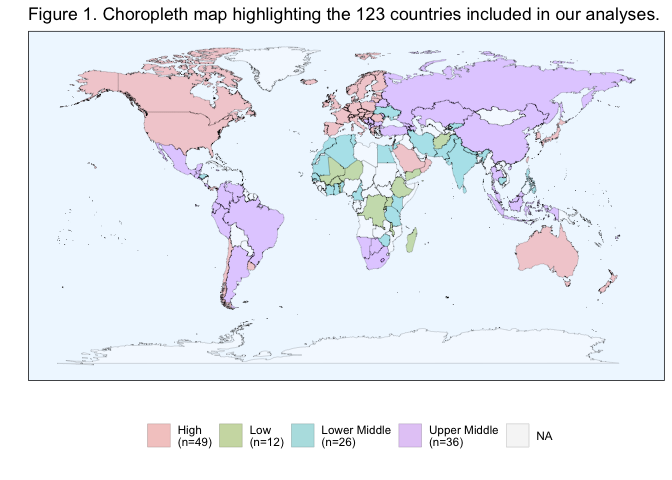
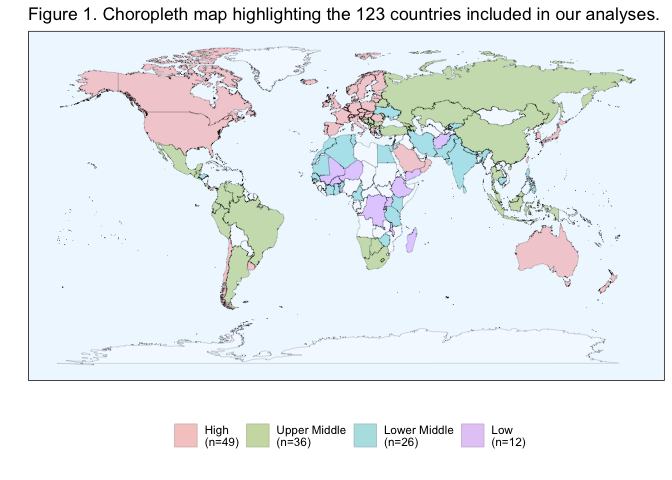
continued on with preliminary analysis, using the newly added income classifications to change fill pattern for initial inclusion figure. also began building out code chunk series for forthcoming violin plot array comparing pop reductions across scenarios and indicators.

diff --git a/analysis/analysis-script.md b/analysis/analysis-script.md
@@ -351,7 +351,7 @@ classifications.
 ``` r
 left_join(impact_modeling_data,reduction_modeling_data,by="country") %>% ggplot(aes(x=long,y=lat,fill=income.classification,group=group)) + 
   geom_polygon(color="black",size=0.05,alpha=0.33) +
-  scale_fill_discrete(labels=c("High\n(n=49)","Low\n(n=12)","Lower Middle\n(n=26)","Upper Middle\n(n=36)","NA"),na.value="white") +
+  scale_fill_discrete(limits=c("high","upper middle","lower middle","low"),labels=c("High\n(n=49)","Upper Middle\n(n=36)","Lower Middle\n(n=26)","Low\n(n=12)","NA"),na.value="white") +
   guides() +
   xlab("") + 
   ylab("") +
@@ -362,11 +362,27 @@ left_join(impact_modeling_data,reduction_modeling_data,by="country") %>% ggplot(
 
 ![](analysis-script_files/figure-gfm/unnamed-chunk-15-1.png)<!-- -->
 
-New inclusion choropleth designating countries by income classification.
+``` r
+vegan_cf_total <- ggplot(reduction_modeling_data,aes(x=dec_pop_vegan_kg_co2e_total,y=income.classification,fill=income.classification)) + 
+  geom_violin(adjust=1.5,size=0.5,alpha=0.33) +
+  scale_fill_discrete(limits=c("high","upper middle","lower middle","low")) +
+  scale_y_discrete(limits=c(c("low","lower middle","upper middle","high"))) +
+  geom_boxplot(width=0.05,fill="black",outlier.shape=NA) + 
+  stat_summary(fun.y=median,geom="point",fill="white",shape=21,size=2)
+```
 
-ggplot(reduction_modeling_data,aes(x=long,y=lat,fill=income.classification,group=group)) +
-geom_polygon(color=“black”,size=0.05,alpha=0.33) +
-scale_fill_discrete(na.value=“white”) + guides(fill=“none”) + xlab(““) +
-ylab(”“) + labs(caption=”“) + ggtitle(”Figure 1. Choropleth map
-highlighting the 123 countries included in our analyses.”) +
-theme(legend.position=“none”,panel.grid=element_blank(),panel.background=element_rect(fill=“aliceblue”),panel.border=element_rect(fill=NA),axis.text=element_blank(),axis.ticks=element_blank())
+``` r
+vegan_cf_xlims <- reduction_modeling_data %>%
+  group_by(income.classification) %>%
+  summarize(q1=quantile(dec_pop_vegan_kg_co2e_total,1/4),q3=quantile(dec_pop_vegan_kg_co2e_total,3/4)) %>%
+  ungroup() %>%
+  summarize(lowq1=min(q1),highq3=max(q3))
+```
+
+``` r
+vegan_cf_total + coord_cartesian(xlim=as.numeric(vegan_cf_xlims))
+```
+
+![](analysis-script_files/figure-gfm/unnamed-chunk-18-1.png)<!-- -->
+remember to change out parent dataset so that it includes GNI for
+scatterplot
